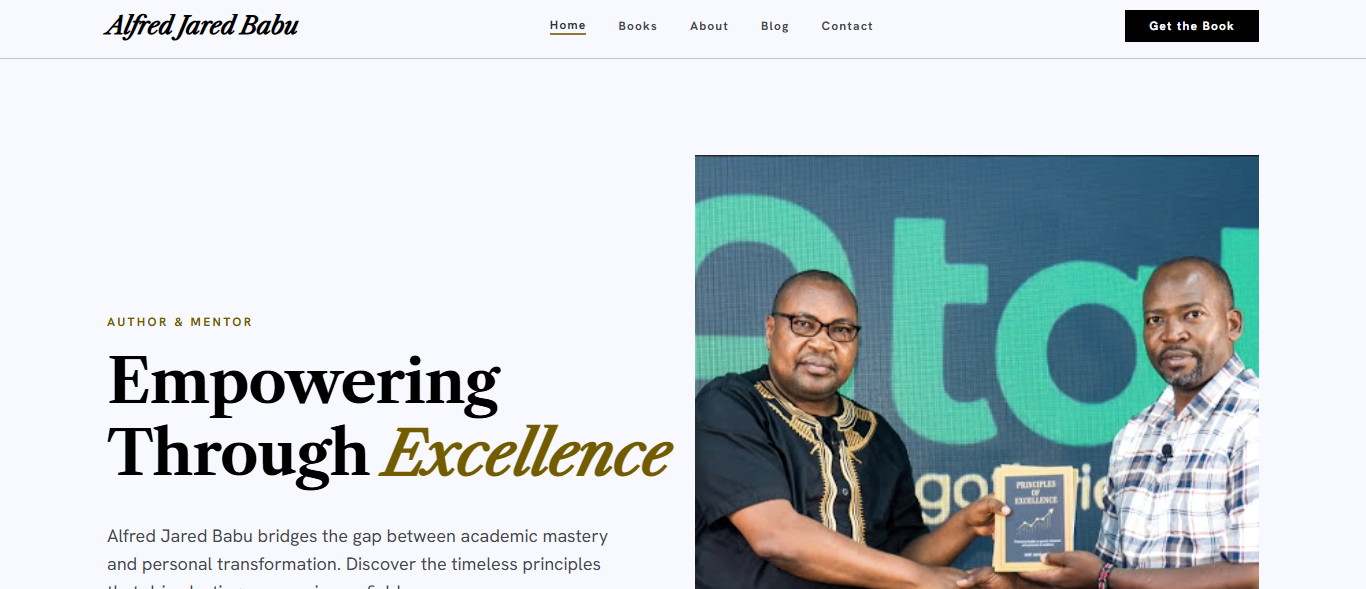
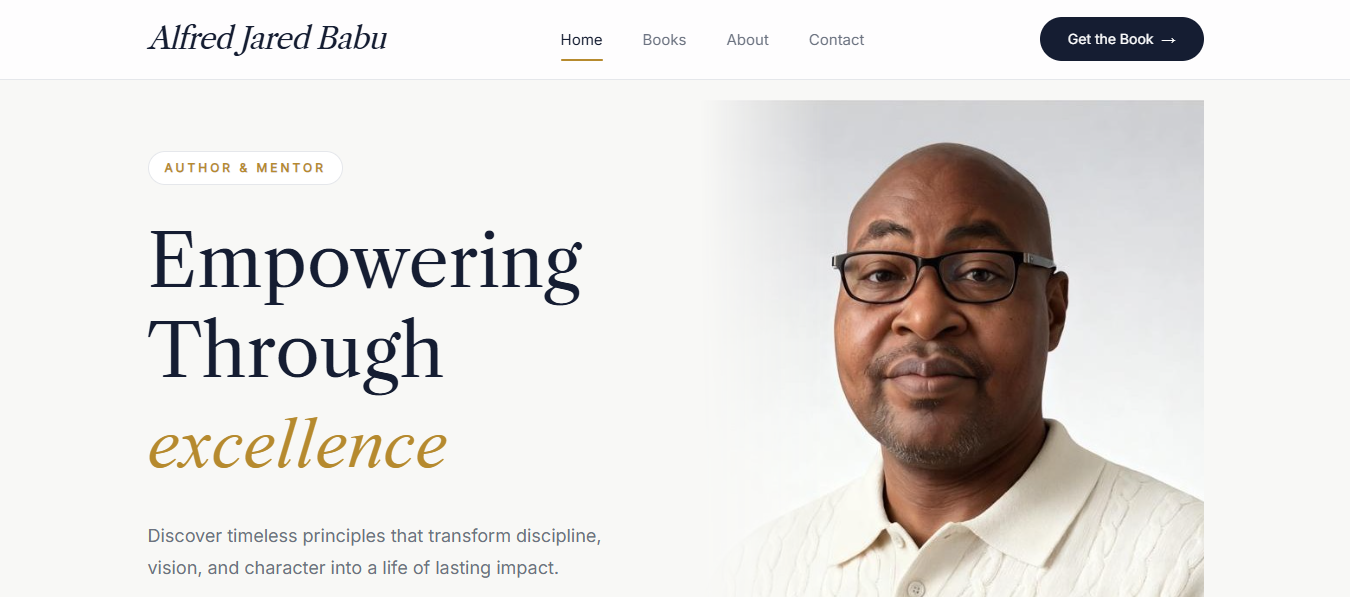
updated work

diff --git a/projects.html b/projects.html
@@ -300,8 +300,118 @@
 
     <div class="fprojects">
 
-
         <!-- Project 1 -->
+        <div class="project-card">
+            <div class="project-top">
+                <div class="project-img-wrap">
+                    <img src="images/work-21.png" alt="Morsan screenshot">
+                </div>
+                <div class="project-header">
+                    <div>
+                        <div class="project-title-row">
+                            <h3 class="project-name">Morsan Consulting Group</h3>
+                            <a href="https://morsan.africa/" class="live-btn" target="_blank">
+                                Go live
+                                <svg width="11" height="11" viewBox="0 0 12 12" fill="none" stroke="currentColor" stroke-width="1.8"><path d="M2 10L10 2M4 2h6v6"/></svg>
+                            </a>
+                        </div>
+                    </div>
+                    <div class="skills-wrap">
+                        <span class="skill-tag">React</span>
+                        <span class="skill-tag">Typescript</span>
+                        <span class="skill-tag">Tailwind CSS</span>
+                        <span class="skill-tag">Node.js</span>
+                        <span class="skill-tag">Responsive Design</span>
+                    </div>
+                </div>
+            </div>
+            <div class="project-body">
+                <p class="project-desc">
+                    A modern corporate consulting website for Morsan Consulting Group,
+                    showcasing its HR consulting, recruitment, job evaluation, salary
+                    benchmarking, and business advisory services through a responsive
+                    React and TypeScript frontend.
+                </p>
+
+                <p class="contrib-label">My contributions</p>
+
+                <ul class="contrib-list">
+                    <li>Designed and developed the frontend using React, TypeScript, Vite, and Tailwind CSS.</li>
+                    <li>Built responsive pages and layouts optimized for desktop, tablet, and mobile devices.</li>
+                    <li>Developed reusable components for service pages, navigation, enquiry forms, and content sections.</li>
+                    <li>Implemented dedicated service landing pages for HR Consulting and Job Evaluation & Salary Surveys.</li>
+                    <li>Integrated backend functionality to handle client enquiries and career applications through email.</li>
+                    <li>Implemented responsive media, interactive elements, and consistent styling aligned with Morsan's corporate identity.</li>
+                    <li>Configured website deployment on a Contabo VPS using Nginx, Node.js, and PM2.</li>
+                    <li>Implemented website metadata, sitemap, robots.txt, Google Search Console, and Google Analytics integration.</li>
+                </ul>
+
+                <p class="closing-note">
+                    A comprehensive corporate consulting platform designed to strengthen
+                    Morsan's digital presence, showcase its services, and provide accessible
+                    enquiry and recruitment channels for prospective clients and applicants.
+                </p>
+            </div>
+        </div>
+
+
+        <!-- Project 2 -->
+        <div class="project-card">
+            <div class="project-top">
+                <div class="project-img-wrap">
+                    <img src="images/work-20.png" alt="Redcore holdings screenshot">
+                </div>
+                <div class="project-header">
+                    <div>
+                        <div class="project-title-row">
+                            <h3 class="project-name">Babu Jared Alfred</h3>
+                            <a href="https://www.babujaredalfred.co.ke/" class="live-btn" target="_blank">
+                                Go live
+                                <svg width="11" height="11" viewBox="0 0 12 12" fill="none" stroke="currentColor" stroke-width="1.8"><path d="M2 10L10 2M4 2h6v6"/></svg>
+                            </a>
+                        </div>
+                    </div>
+                    <div class="skills-wrap">
+                        <span class="skill-tag">React</span>
+                        <span class="skill-tag">Vite</span>
+                        <span class="skill-tag">Typescript</span>
+                        <span class="skill-tag">MongoDB</span>
+                        <span class="skill-tag">Node.js</span>
+                    </div>
+                </div>
+            </div>     
+            <div class="project-body">
+                <p class="project-desc">
+                    A modern author and book-selling website designed to showcase
+                    Alfred Jared Babu's published works, share his personal journey,
+                    and provide readers with a seamless online book purchasing
+                    experience.
+                </p>
+
+                <p class="contrib-label">My contributions</p>
+
+                <ul class="contrib-list">
+                    <li>Designed and developed the frontend using React, TypeScript, and Vite.</li>
+                    <li>Built a responsive and user-friendly interface optimized for desktop, tablet, and mobile devices.</li>
+                    <li>Developed dedicated pages for the author's profile, published books, and contact information.</li>
+                    <li>Implemented an online book ordering and purchasing system.</li>
+                    <li>Integrated payment processing with M-Pesa, PayPal, and bank payment options.</li>
+                    <li>Developed backend functionality using Node.js, Express, and TypeScript to handle orders and payment workflows.</li>
+                    <li>Implemented email notifications and order management functionality.</li>
+                    <li>Focused on performance, usability, and a consistent visual identity aligned with the author's brand.</li>
+                </ul>
+
+                <p class="closing-note">
+                    A complete author and e-commerce web solution connecting
+                    readers with published works through an accessible digital
+                    platform and streamlined online purchasing experience.
+                </p>
+            </div>
+
+        </div>
+
+
+        <!-- Project 3 -->
         <div class="project-card">
             <div class="project-top">
                 <div class="project-img-wrap">
@@ -341,7 +451,7 @@
             </div>
         </div>
 
-        <!-- Project 2 -->
+        <!-- Project 4 -->
         <div class="project-card">
             <div class="project-top">
                 <div class="project-img-wrap">
@@ -381,7 +491,47 @@
             </div>
         </div>
 
-        <!-- Project 3 -->
+        <!-- Project 5 -->
+        <div class="project-card">
+            <div class="project-top">
+                <div class="project-img-wrap">
+                    <img src="images/work-18.png" alt="Darko Orphans screenshot">
+                </div>
+                <div class="project-header">
+                    <div>
+                        <div class="project-title-row">
+                            <h3 class="project-name">Darko Orphans</h3>
+                            <a href="https://darkoorphans.org/" class="live-btn" target="_blank">
+                                Go live
+                                <svg viewBox="0 0 12 12" fill="none" stroke="currentColor" stroke-width="1.8"><path d="M2 10L10 2M4 2h6v6"/></svg>
+                            </a>
+                        </div>
+                    </div>
+                    <div class="skills-wrap">
+                        <span class="skill-tag">WordPress</span>
+                        <span class="skill-tag">Frontend development</span>
+                        <span class="skill-tag">Form integration</span>
+                        <span class="skill-tag">Mobile responsiveness</span>
+                        <span class="skill-tag">SEO</span>
+                    </div>
+                </div>
+            </div>
+            <div class="project-body">
+                <p class="project-desc">A website for a non-profit organization dedicated to supporting vulnerable children through education, empowerment, clean water, feeding programs, and sponsorship opportunities — built to communicate the mission clearly and encourage involvement.</p>
+                <p class="contrib-label">Key features</p>
+                <ul class="contrib-list">
+                    <li>Fully responsive design for desktop and mobile.</li>
+                    <li>Clear CTAs: Donate, Sponsor, Get Involved.</li>
+                    <li>Dedicated program pages highlighting core initiatives.</li>
+                    <li>Inspiring visuals and transformation stories.</li>
+                    <li>SEO-friendly structure for global reach.</li>
+                    <li>Designed to grow with new programs and partnerships.</li>
+                </ul>
+                <p class="closing-note">A professional digital presence that strengthens the mission and simplifies supporter engagement.</p>
+            </div>
+        </div>
+
+        <!-- Project 6 -->
         <div class="project-card">
             <div class="project-top">
                 <div class="project-img-wrap">
@@ -421,7 +571,7 @@
             </div>
         </div>
 
-        <!-- Project 4 -->
+        <!-- Project 7 -->
         <div class="project-card">
             <div class="project-top">
                 <div class="project-img-wrap">
@@ -461,7 +611,7 @@
             </div>
         </div>
 
-        <!-- Project 5 -->
+        <!-- Project 8 -->
         <div class="project-card">
             <div class="project-top">
                 <div class="project-img-wrap">
@@ -494,46 +644,6 @@
                     <li>SEO-friendly structure to support online visibility.</li>
                 </ul>
                 <p class="closing-note">Designed to grow as the business adds more vegetables and services.</p>
-            </div>
-        </div>
-
-        <!-- Project 6 -->
-        <div class="project-card">
-            <div class="project-top">
-                <div class="project-img-wrap">
-                    <img src="images/work-18.png" alt="Darko Orphans screenshot">
-                </div>
-                <div class="project-header">
-                    <div>
-                        <div class="project-title-row">
-                            <h3 class="project-name">Darko Orphans</h3>
-                            <a href="https://darkoorphans.org/" class="live-btn" target="_blank">
-                                Go live
-                                <svg viewBox="0 0 12 12" fill="none" stroke="currentColor" stroke-width="1.8"><path d="M2 10L10 2M4 2h6v6"/></svg>
-                            </a>
-                        </div>
-                    </div>
-                    <div class="skills-wrap">
-                        <span class="skill-tag">WordPress</span>
-                        <span class="skill-tag">Frontend development</span>
-                        <span class="skill-tag">Form integration</span>
-                        <span class="skill-tag">Mobile responsiveness</span>
-                        <span class="skill-tag">SEO</span>
-                    </div>
-                </div>
-            </div>
-            <div class="project-body">
-                <p class="project-desc">A website for a non-profit organization dedicated to supporting vulnerable children through education, empowerment, clean water, feeding programs, and sponsorship opportunities — built to communicate the mission clearly and encourage involvement.</p>
-                <p class="contrib-label">Key features</p>
-                <ul class="contrib-list">
-                    <li>Fully responsive design for desktop and mobile.</li>
-                    <li>Clear CTAs: Donate, Sponsor, Get Involved.</li>
-                    <li>Dedicated program pages highlighting core initiatives.</li>
-                    <li>Inspiring visuals and transformation stories.</li>
-                    <li>SEO-friendly structure for global reach.</li>
-                    <li>Designed to grow with new programs and partnerships.</li>
-                </ul>
-                <p class="closing-note">A professional digital presence that strengthens the mission and simplifies supporter engagement.</p>
             </div>
         </div>
 

diff --git a/index.html b/index.html
@@ -689,7 +689,7 @@
                 <div class="tab-contents" id="education">
                     <ul>
                         <li><span>Alison</span>Diploma in Cybersecurity</li>
-                        <li><span>Alison</span>Diploma in Mathematics</li>
+                        <li><span>Alisonl</span>Diploma in Mathematics</li>
                         <li><span>freeCodeCamp</span>Learn Tailwind CSS</li>
                         <li><span>freeCodeCamp</span>React Course</li>
                         <li><span>GreatStack</span>JavaScript full course</li>
@@ -735,6 +735,116 @@
         <div class="project-card">
             <div class="project-top">
                 <div class="project-img-wrap">
+                    <img src="images/work-21.png" alt="Morsan screenshot">
+                </div>
+                <div class="project-header">
+                    <div>
+                        <div class="project-title-row">
+                            <h3 class="project-name">Morsan Consulting Group</h3>
+                            <a href="https://morsan.africa/" class="live-btn" target="_blank">
+                                Go live
+                                <svg width="11" height="11" viewBox="0 0 12 12" fill="none" stroke="currentColor" stroke-width="1.8"><path d="M2 10L10 2M4 2h6v6"/></svg>
+                            </a>
+                        </div>
+                    </div>
+                    <div class="skills-wrap">
+                        <span class="skill-tag">React</span>
+                        <span class="skill-tag">Typescript</span>
+                        <span class="skill-tag">Tailwind CSS</span>
+                        <span class="skill-tag">Node.js</span>
+                        <span class="skill-tag">Responsive Design</span>
+                    </div>
+                </div>
+            </div>
+            <div class="project-body">
+                <p class="project-desc">
+                    A modern corporate consulting website for Morsan Consulting Group,
+                    showcasing its HR consulting, recruitment, job evaluation, salary
+                    benchmarking, and business advisory services through a responsive
+                    React and TypeScript frontend.
+                </p>
+
+                <p class="contrib-label">My contributions</p>
+
+                <ul class="contrib-list">
+                    <li>Designed and developed the frontend using React, TypeScript, Vite, and Tailwind CSS.</li>
+                    <li>Built responsive pages and layouts optimized for desktop, tablet, and mobile devices.</li>
+                    <li>Developed reusable components for service pages, navigation, enquiry forms, and content sections.</li>
+                    <li>Implemented dedicated service landing pages for HR Consulting and Job Evaluation & Salary Surveys.</li>
+                    <li>Integrated backend functionality to handle client enquiries and career applications through email.</li>
+                    <li>Implemented responsive media, interactive elements, and consistent styling aligned with Morsan's corporate identity.</li>
+                    <li>Configured website deployment on a Contabo VPS using Nginx, Node.js, and PM2.</li>
+                    <li>Implemented website metadata, sitemap, robots.txt, Google Search Console, and Google Analytics integration.</li>
+                </ul>
+
+                <p class="closing-note">
+                    A comprehensive corporate consulting platform designed to strengthen
+                    Morsan's digital presence, showcase its services, and provide accessible
+                    enquiry and recruitment channels for prospective clients and applicants.
+                </p>
+            </div>
+        </div>
+
+
+        <!-- Project 2 -->
+        <div class="project-card">
+            <div class="project-top">
+                <div class="project-img-wrap">
+                    <img src="images/work-20.png" alt="Redcore holdings screenshot">
+                </div>
+                <div class="project-header">
+                    <div>
+                        <div class="project-title-row">
+                            <h3 class="project-name">Babu Jared Alfred</h3>
+                            <a href="https://www.babujaredalfred.co.ke/" class="live-btn" target="_blank">
+                                Go live
+                                <svg width="11" height="11" viewBox="0 0 12 12" fill="none" stroke="currentColor" stroke-width="1.8"><path d="M2 10L10 2M4 2h6v6"/></svg>
+                            </a>
+                        </div>
+                    </div>
+                    <div class="skills-wrap">
+                        <span class="skill-tag">React</span>
+                        <span class="skill-tag">Vite</span>
+                        <span class="skill-tag">Typescript</span>
+                        <span class="skill-tag">MongoDB</span>
+                        <span class="skill-tag">Node.js</span>
+                    </div>
+                </div>
+            </div>     
+            <div class="project-body">
+                <p class="project-desc">
+                    A modern author and book-selling website designed to showcase
+                    Alfred Jared Babu's published works, share his personal journey,
+                    and provide readers with a seamless online book purchasing
+                    experience.
+                </p>
+
+                <p class="contrib-label">My contributions</p>
+
+                <ul class="contrib-list">
+                    <li>Designed and developed the frontend using React, TypeScript, and Vite.</li>
+                    <li>Built a responsive and user-friendly interface optimized for desktop, tablet, and mobile devices.</li>
+                    <li>Developed dedicated pages for the author's profile, published books, and contact information.</li>
+                    <li>Implemented an online book ordering and purchasing system.</li>
+                    <li>Integrated payment processing with M-Pesa, PayPal, and bank payment options.</li>
+                    <li>Developed backend functionality using Node.js, Express, and TypeScript to handle orders and payment workflows.</li>
+                    <li>Implemented email notifications and order management functionality.</li>
+                    <li>Focused on performance, usability, and a consistent visual identity aligned with the author's brand.</li>
+                </ul>
+
+                <p class="closing-note">
+                    A complete author and e-commerce web solution connecting
+                    readers with published works through an accessible digital
+                    platform and streamlined online purchasing experience.
+                </p>
+            </div>
+
+        </div>
+
+        <!-- Project 3 -->
+        <div class="project-card">
+            <div class="project-top">
+                <div class="project-img-wrap">
                     <img src="images/work-19.png" alt="Redcore holdings screenshot">
                 </div>
                 <div class="project-header">
@@ -770,9 +880,11 @@
                 <p class="closing-note">A comprehensive corporate web solution focused on professionalism, credibility, and business growth.</p>
             </div>
         </div>
+        
+          
 
 
-        <!-- Project 2 -->
+        <!-- Project 4 -->
         <div class="project-card">
             <div class="project-top">
                 <div class="project-img-wrap">
@@ -812,7 +924,7 @@
             </div>
         </div>
 
-        <!-- Project 3 -->
+        <!-- Project 5 -->
         <div class="project-card">
             <div class="project-top">
                 <div class="project-img-wrap">
